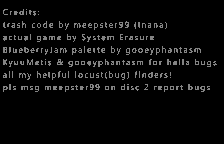
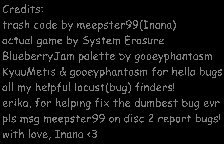
updated credits

diff --git a/code/src/CutsceneManager.cpp b/code/src/CutsceneManager.cpp
@@ -2388,6 +2388,8 @@ void CutsceneManager::showCredits() {
 	
 	cutsceneLayer.rawMap.create(bn::regular_bg_items::dw_credits);
 	
+	cutsceneLayer.rawMap.bgPointer.set_y(cutsceneLayer.rawMap.bgPointer.y() - 8);
+	
 	delay(1);
 	
 	
